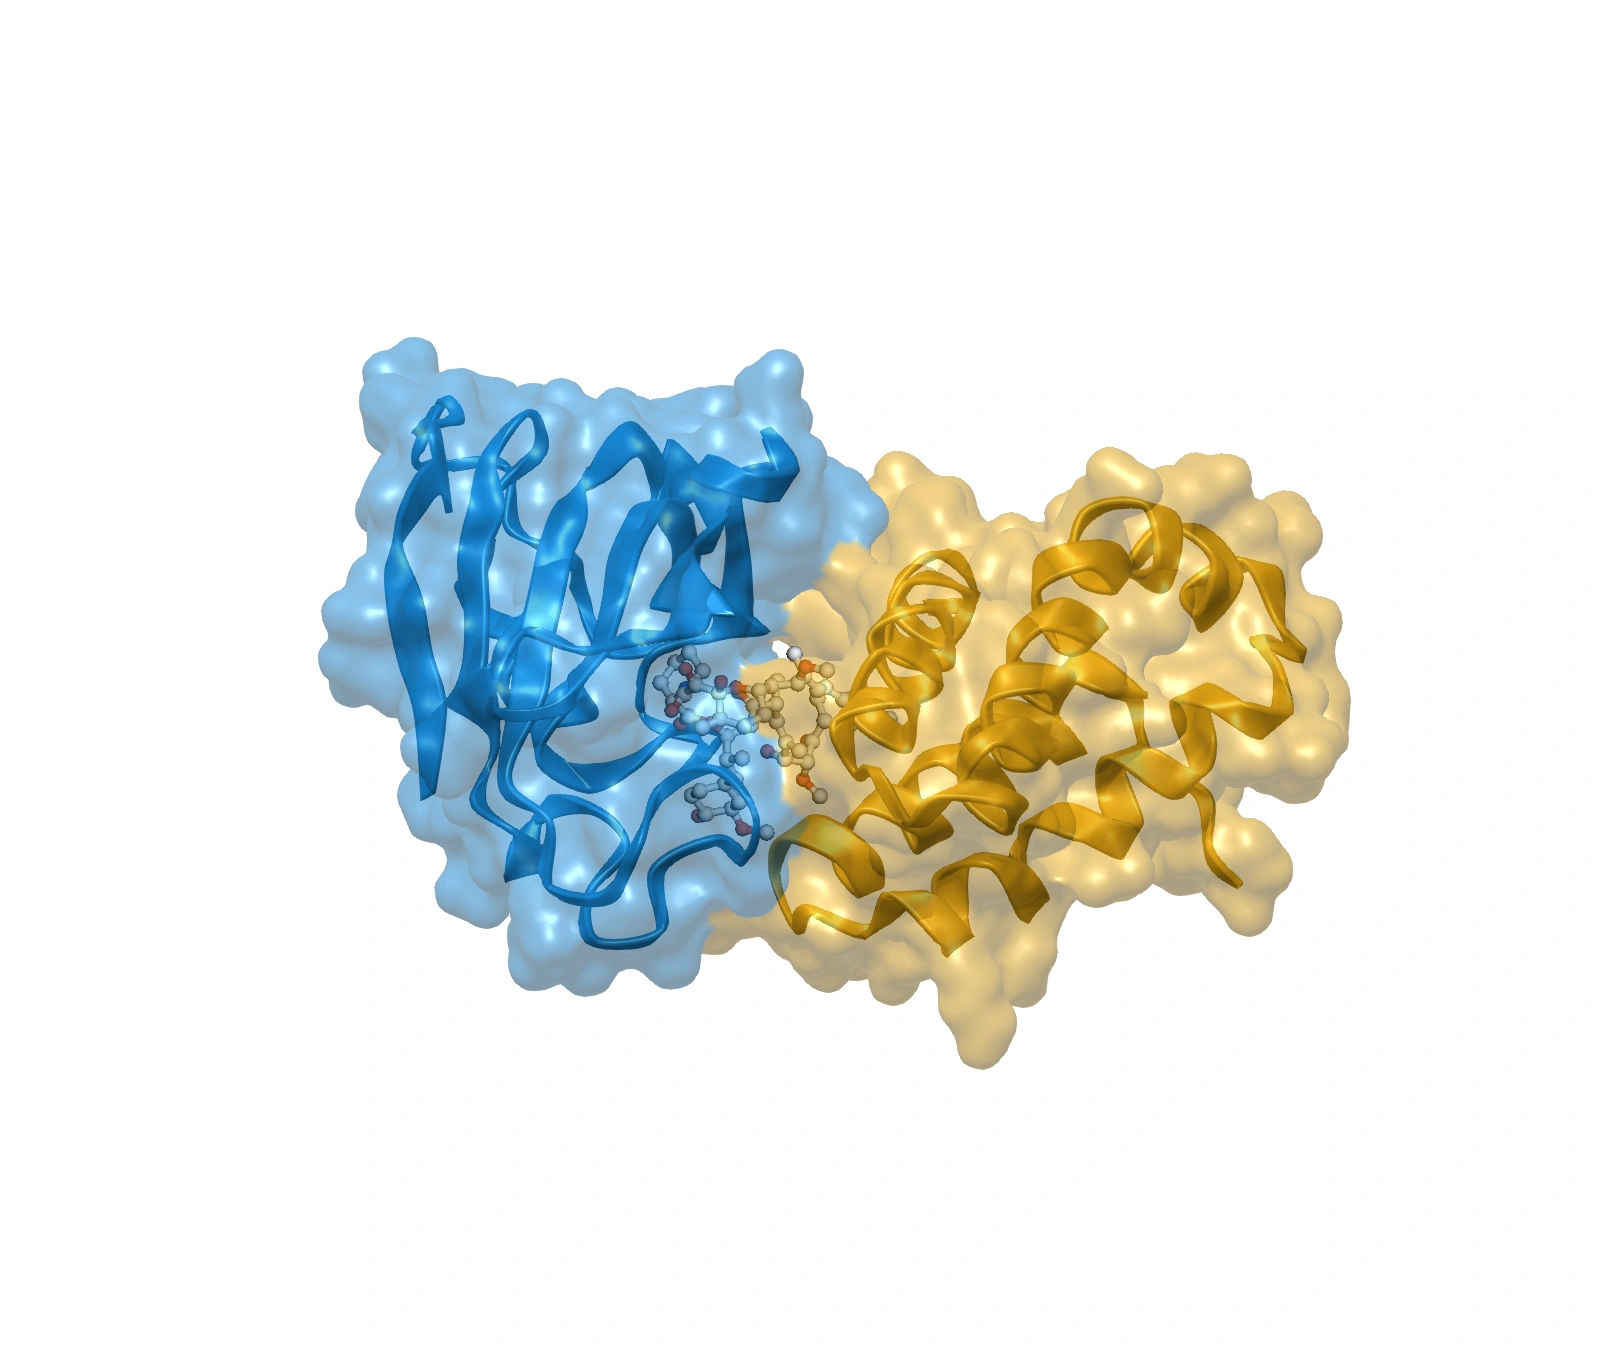
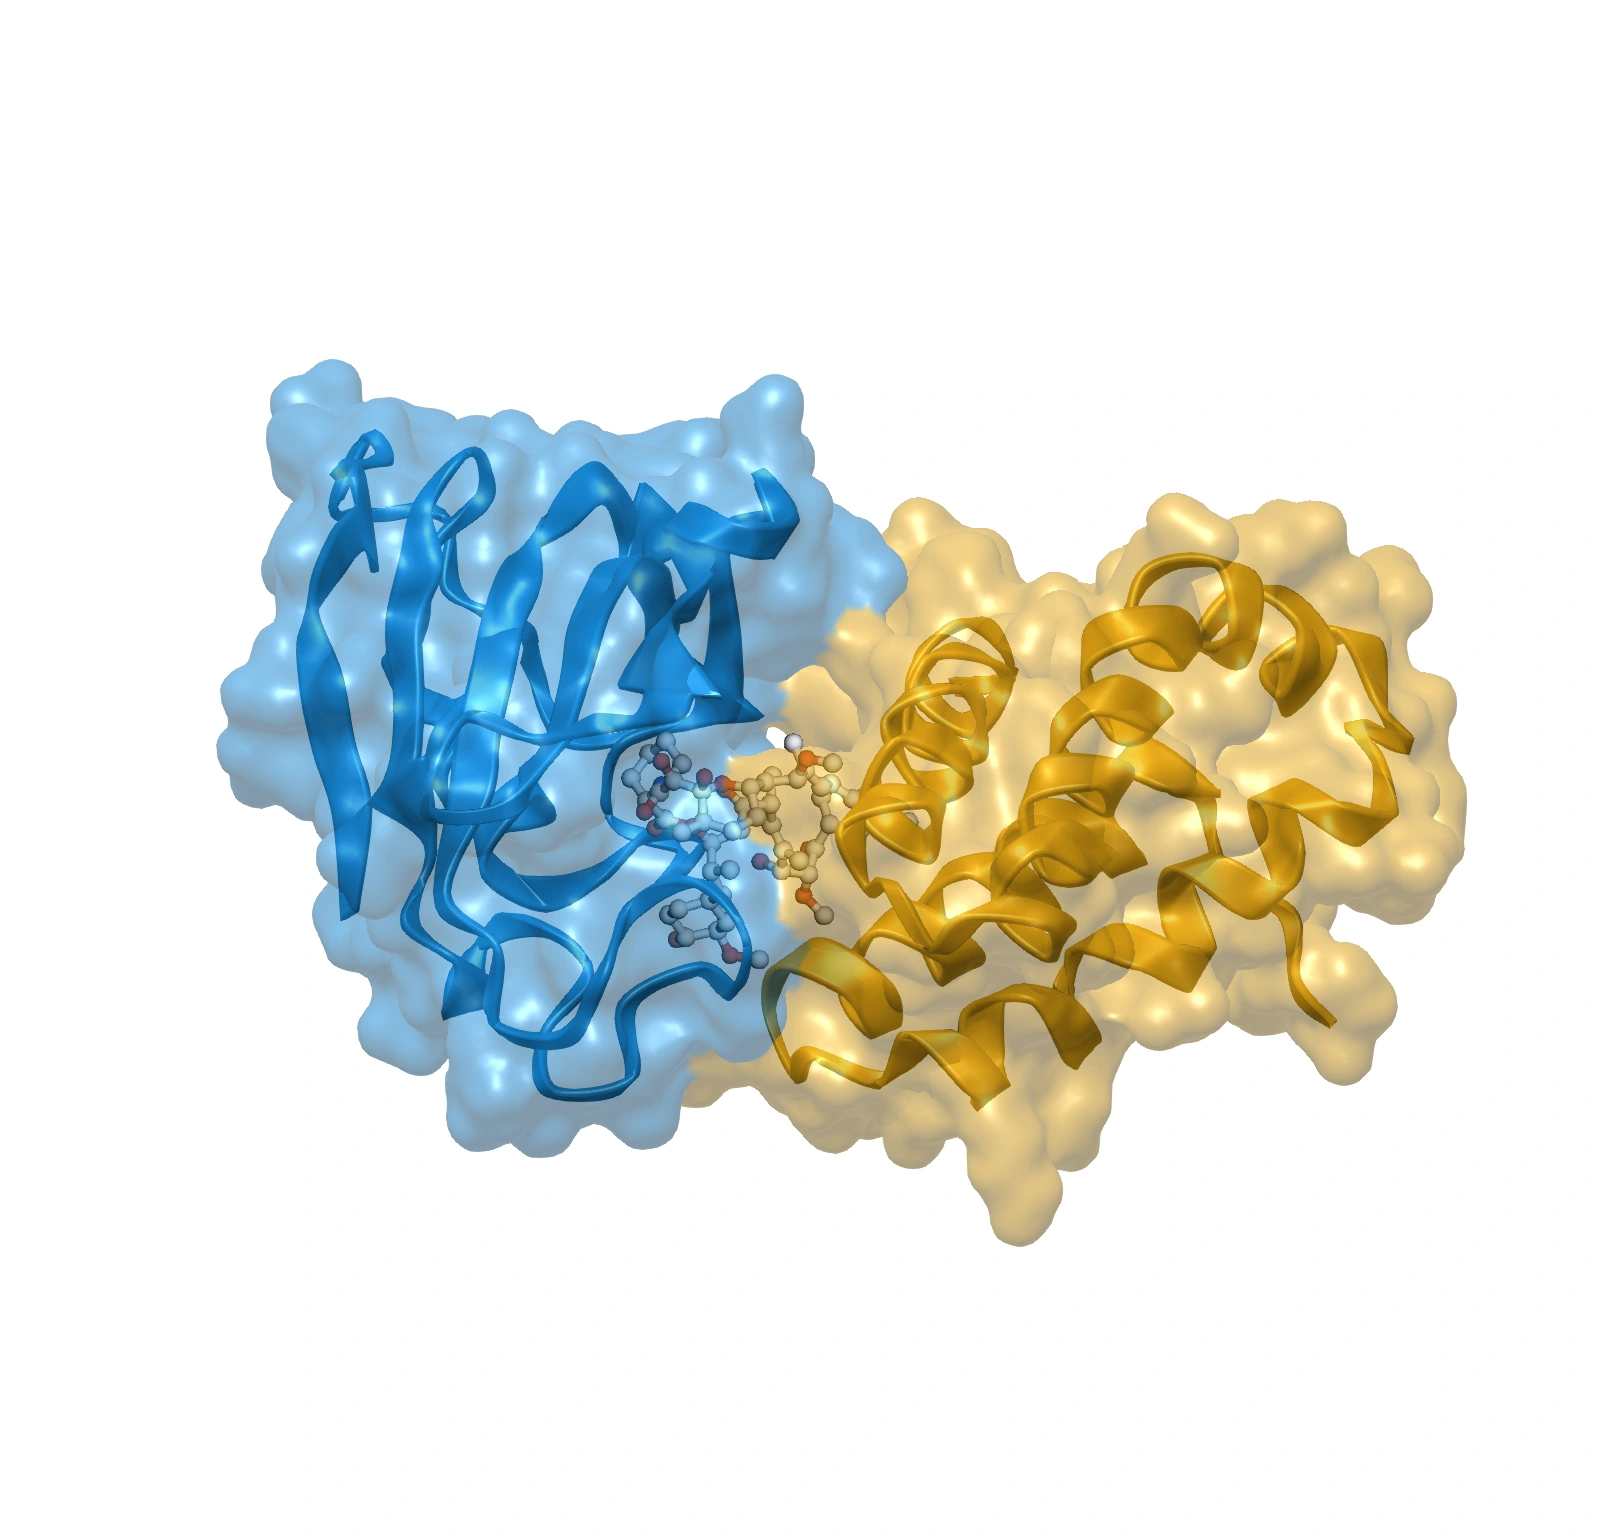
Enlarge homepage molecular scene and enable direct manipulation (#12)

Changed region(s): [[0.125, 0.2175, 0.9375, 0.8077]]

diff --git a/src/static/assets/modules/protein-scene.js b/src/static/assets/modules/protein-scene.js
@@ -8,6 +8,11 @@ export class ProteinScene {
     this.ambient=ambient;
     this.library=library;this.element=element;this.viewer=library.createViewer(element,ambient?{...proteinViewerSettings,nomouse:true}:proteinViewerSettings);
     if(!this.viewer)throw new Error('webgl_unavailable');
+    if(ambient){
+      // Use the documented custom-handler hook; install no competing native wheel handler.
+      const canvas=this.viewer.getCanvas();
+      for(const [event,handler] of [['mousedown','_handleMouseDown'],['touchstart','_handleMouseDown'],['mousemove','_handleMouseMove'],['touchmove','_handleMouseMove'],['contextmenu','_handleContextMenu']])canvas.addEventListener(event,this.viewer[handler].bind(this.viewer),{passive:false});
+    }
     this.context=this.viewer.getRenderer().getContext();
     if(!this.context||this.context.isContextLost())throw new Error('webgl_unavailable');
     this.context.canvas.addEventListener('webglcontextlost',()=>{this.viewer.spin(false);element.dispatchEvent(new Event('protein-context-lost'));});
@@ -27,9 +32,10 @@ export class ProteinScene {
     this.frame();this.initialView=[...this.viewer.getView()];
   }
   frame() {
+    if(this.ambient)this.viewer.setZoomLimits(1,100000);
     this.viewer.zoomTo(this.selection);
     this.viewer.zoom(fittingZoom(this.element.clientWidth,this.element.clientHeight));this.viewer.render();
-    if(this.ambient){fitAmbientFrame(this.viewer,this.element,this.model.selectedAtoms(this.selection));return;}
+    if(this.ambient){fitAmbientFrame(this.viewer,this.element,this.model.selectedAtoms(this.selection));const distance=this.viewer.getPerceivedDistance();this.viewer.setZoomLimits(distance/2.4,distance/.7);return;}
     const points=this.viewer.modelToScreen(this.model.selectedAtoms(this.selection));
     const xs=points.map(point=>point.x),ys=points.map(point=>point.y);
     const fill=Math.min(this.element.clientWidth*.86/(Math.max(...xs)-Math.min(...xs)),this.element.clientHeight*.8/(Math.max(...ys)-Math.min(...ys)));
@@ -78,5 +84,14 @@ export class ProteinScene {
   reset(){if(this.initialView){this.viewer.setView([...this.initialView]);this.frame();this.viewer.render();}}
   rotate(angle,axis){this.viewer.rotate(angle,axis);this.viewer.render();}
   zoom(factor){this.viewer.zoom(factor);this.viewer.render();}
-  resize(){const size=[this.element.clientWidth,this.element.clientHeight];this.viewer.resize();if(this.model&&size.some((v,i)=>v!==this.size[i])){this.frame();this.viewer.render();}this.size=size;}
+  endGesture(event){this.viewer._handleMouseUp(event);}
+  resize(){
+    const size=[this.element.clientWidth,this.element.clientHeight],view=this.viewer.getView();
+    this.viewer.resize();
+    if(this.model&&size.some((v,i)=>v!==this.size[i])){
+      if(this.ambient&&this.interacted)this.viewer.setView(view);else this.frame();
+      this.viewer.render();
+    }
+    this.size=size;
+  }
 }

diff --git a/src/static/assets/modules/molecular-gestures.js b/src/static/assets/modules/molecular-gestures.js
@@ -1,0 +1,51 @@
+// Native 3Dmol owns drag/pinch. This module owns normalized wheel and keyboard input.
+export function bindMolecularGestures(element,{scene,ready,sync}) {
+  const pointers=new Set();
+  let cooling=false,timer,tap,previousTap;
+  const reset=()=>{scene().reset();scene().interacted=false;};
+  const schedule=()=>{
+    clearTimeout(timer);
+    cooling=true;
+    timer=setTimeout(()=>{cooling=false;sync();},1800);
+    sync();
+  };
+  const start=event=>{
+    if(!ready())return;
+    pointers.add(event.pointerId);clearTimeout(timer);cooling=false;
+    tap=event.pointerType==='touch'&&pointers.size===1?{id:event.pointerId,x:event.clientX,y:event.clientY,time:performance.now()}:null;
+    scene().interacted=true;sync();
+  };
+  const end=event=>{
+    if(!pointers.delete(event.pointerId))return;
+    if(ready()&&tap?.id===event.pointerId&&performance.now()-tap.time<300){
+      if(previousTap&&tap.time-previousTap.time<380&&Math.hypot(tap.x-previousTap.x,tap.y-previousTap.y)<20){reset();previousTap=null;}
+      else previousTap=tap;
+    }
+    tap=null;if(!pointers.size)schedule();
+  };
+  const cancel=event=>{if(pointers.size)scene()?.endGesture(event);pointers.clear();tap=null;previousTap=null;clearTimeout(timer);cooling=false;sync();};
+  element.addEventListener('pointerdown',start,{capture:true});
+  element.addEventListener('pointermove',event=>{if(tap&&Math.hypot(event.clientX-tap.x,event.clientY-tap.y)>8)tap=null;});
+  addEventListener('pointerup',end);addEventListener('pointercancel',event=>{tap=null;scene()?.endGesture(event);end(event);});
+  element.addEventListener('wheel',event=>{
+    if(!ready())return;
+    event.preventDefault();
+    const unit=event.deltaMode===1?16:event.deltaMode===2?element.clientHeight:1;
+    const delta=Math.max(-240,Math.min(240,event.deltaY*unit));
+    scene().interacted=true;scene().zoom(Math.exp(-delta*.002));schedule();
+  },{passive:false});
+  element.addEventListener('dblclick',event=>{
+    if(!ready())return;
+    event.preventDefault();reset();schedule();
+  });
+  element.addEventListener('keydown',event=>{
+    if(!ready()||event.altKey||event.ctrlKey||event.metaKey)return;
+    const current=scene();
+    const actions={ArrowLeft:()=>current.rotate(5,'vy'),ArrowRight:()=>current.rotate(-5,'vy'),ArrowUp:()=>current.rotate(5,'vx'),ArrowDown:()=>current.rotate(-5,'vx'),'+':()=>current.zoom(1.12),'=':()=>current.zoom(1.12),'-':()=>current.zoom(1/1.12),Home:()=>current.reset(),'0':()=>current.reset()};
+    if(!actions[event.key])return;
+    event.preventDefault();current.interacted=!['Home','0'].includes(event.key);actions[event.key]();schedule();
+  });
+  addEventListener('blur',cancel);addEventListener('pagehide',cancel);
+  document.addEventListener('visibilitychange',event=>{if(document.hidden)cancel(event);});
+  return {busy:()=>pointers.size>0||cooling};
+}

diff --git a/src/static/assets/styles/atmosphere.css b/src/static/assets/styles/atmosphere.css
@@ -1,8 +1,15 @@
 .hero-visual.hero-molecular { align-self:center; }
-.molecular-atmosphere { position:relative; isolation:isolate; width:112%; margin-left:-6%; height:650px; min-width:0; }
+.molecular-atmosphere { position:relative; isolation:isolate; width:112%; margin-left:-6%; height:740px; min-width:0; }
 .atmosphere-stage { position:absolute; inset:0; z-index:2; }
 .atmosphere-canvas,.atmosphere-poster { position:absolute; inset:0; width:100%; height:100%; object-fit:contain; pointer-events:none; }
-.atmosphere-canvas,.atmosphere-poster { mask-image:radial-gradient(ellipse at center,#000 60%,transparent 76%); }
+.atmosphere-canvas,.atmosphere-poster { mask-image:radial-gradient(ellipse at center,#000 68%,transparent 82%); }
+.atmosphere-canvas { pointer-events:auto; cursor:grab; touch-action:none; }
+.atmosphere-canvas:active { cursor:grabbing; }
+.atmosphere-canvas:focus-visible { outline:none; }
+.molecular-atmosphere:has(.atmosphere-canvas:focus-visible) { outline:2px solid #92b9ce; outline-offset:-10px; }
+.atmosphere-hint { position:absolute; bottom:24px; left:20px; right:20px; z-index:3; pointer-events:none; color:var(--muted); font-size:11px; text-align:center; }
+.gesture-touch { display:none; }
+@media(pointer:coarse) { .gesture-mouse { display:none; } .gesture-touch { display:inline; } }
 .atmosphere-glow { position:absolute; inset:10% 0; z-index:0; border-radius:50%; background:radial-gradient(ellipse at 32% 44%,#78caff18,transparent 56%),radial-gradient(ellipse at 71% 50%,#ffd46718,transparent 60%); filter:blur(20px); animation:atmosphere-breathe 12s ease-in-out infinite paused; }
 [data-protein-mode="ambient"][data-phase="ready"] .atmosphere-poster { opacity:0; transition:opacity .8s; }
 [data-protein-mode="ambient"]:not([data-phase="ready"]) .atmosphere-canvas { visibility:hidden; }
@@ -11,7 +18,7 @@
 .product-feature-art { max-width:920px; margin:38px auto 0; }
 .research-illustration { min-width:0; }
 @keyframes atmosphere-breathe { 0%,100% { transform:scale(.95) rotate(-4deg); opacity:.8; } 50% { transform:scale(1.06) rotate(4deg); opacity:1; } }
-@media(max-width:1100px) { .molecular-atmosphere { height:540px; } }
-@media(max-width:760px) { .molecular-atmosphere { height:470px; width:100%; margin:0; } }
-@media(max-width:520px) { .molecular-atmosphere { height:370px; } .atmosphere-glow { inset:5% -8%; } }
+@media(max-width:1100px) { .molecular-atmosphere { height:600px; } }
+@media(max-width:760px) { .molecular-atmosphere { height:520px; width:100%; margin:0; } }
+@media(max-width:520px) { .molecular-atmosphere { height:420px; width:calc(100% + 40px); margin-left:-20px; } .atmosphere-glow { inset:5% -8%; } .atmosphere-hint { bottom:12px; font-size:10px; } }
 @media(prefers-reduced-motion:reduce) { .atmosphere-glow { animation:none; } .atmosphere-poster { transition:none!important; } }

diff --git a/src/static/assets/modules/molecular-atmosphere.js b/src/static/assets/modules/molecular-atmosphere.js
@@ -2,23 +2,25 @@ import { loadProteinLibrary } from './protein-library.js';
 import { loadStructure } from './structure-data.js';
 import { ProteinScene } from './protein-scene.js';
 import { motionAllowed,subscribeMotion } from './motion-policy.js';
+import { bindMolecularGestures } from './molecular-gestures.js';
 
 export function mountMolecularAtmosphere(root) {
   const {structures}=JSON.parse(root.querySelector('[data-protein-data]').textContent);
   const canvas=root.querySelector('[data-protein-canvas]'),status=root.querySelector('[data-ambient-status]');
   let scene,visible=false,started=false,failed=false;
   const controller=new AbortController();
+  const gestures=bindMolecularGestures(canvas,{scene:()=>scene,ready:()=>!!scene&&!failed&&root.dataset.phase==='ready',sync});
   function sync(){
-    const playing=!!scene&&!failed&&root.dataset.phase==='ready'&&visible&&!document.hidden&&motionAllowed();
+    const playing=!!scene&&!failed&&root.dataset.phase==='ready'&&visible&&!document.hidden&&motionAllowed()&&!gestures.busy();
     scene?.spin(playing);root.dataset.spinning=String(playing);
   }
-  function fail(){failed=true;root.dataset.phase='error';status.hidden=false;sync();}
+  function fail(){failed=true;root.dataset.phase='error';status.hidden=false;canvas.tabIndex=-1;canvas.setAttribute('aria-disabled','true');root.querySelector('[data-ambient-hint]').hidden=true;sync();}
   async function start(){
     started=true;root.dataset.phase='loading';
     try{
       const library=await loadProteinLibrary();scene=new ProteinScene(library,canvas,{ambient:true});
       const text=await loadStructure(structures[0],controller.signal);scene.load(text,structures[0]);await scene.represent('ambient');
-      if(failed)return;root.dataset.phase='ready';sync();
+      if(failed)return;root.dataset.phase='ready';canvas.tabIndex=0;canvas.setAttribute('aria-disabled','false');root.querySelector('[data-ambient-hint]').hidden=false;sync();
     }catch{fail();}
   }
   canvas.addEventListener('protein-context-lost',fail);subscribeMotion(sync);

diff --git a/src/static/assets/modules/protein-material.js b/src/static/assets/modules/protein-material.js
@@ -19,7 +19,7 @@ export function fitAmbientFrame(viewer,element,atoms) {
   const radius=Math.max(...atoms.map(a=>Math.hypot(a.x-center.x,a.y-center.y,a.z-center.z)))+4;
   const points=viewer.modelToScreen([center,{...center,x:center.x+1},{...center,y:center.y+1},{...center,z:center.z+1}]);
   const sx=Math.hypot(...points.slice(1).map(p=>p.x-points[0].x)),sy=Math.hypot(...points.slice(1).map(p=>p.y-points[0].y));
-  const scale=Math.min(element.clientWidth*.47/(radius*sx),element.clientHeight*.47/(radius*sy));
+  const scale=Math.min(element.clientWidth*.5/(radius*sx),element.clientHeight*.5/(radius*sy));
   if(!Number.isFinite(scale)||scale<=0)throw new Error('invalid_ambient_frame');
   viewer.zoom(scale);viewer.setSlab(-1.3*radius,1.3*radius);viewer.render();
 }

diff --git a/QUALITY.md b/QUALITY.md
@@ -25,7 +25,7 @@ Default English is served at `/`; the central locale dictionary owns routing.
 | Shared motion preference | OS reduction, user pause/resume, refresh, visible/offscreen/hidden states | Image animation timelines stop; genuine PDB rotation and CSS traces agree; accurate reason labels |
 | Biomedical imagery × 6 | Subject relevance, blended edges, loading/error/retry, pause/pointer/offscreen/no JS | Original native provenance; real image pixels and accurate labels; no generated results |
 | Product use cases × 5 × 6 | Three problem/benefit/next-step panels, official guide, arrows/Home/End, focus, no JS | Complete localized facts, single shared tab contract; no pretend scientific execution |
-| Homepage ambient scene × 6 | Automatic multi-axis rotation; no buttons, menus, captions, pointer gestures or focusable widgets; responsive fit, reduced motion and failure poster | Real camera changes; full rotation bounds; generic accessible name; no visible surrounding UI |
+| Homepage ambient scene × 6 | Automatic multi-axis rotation; larger composition; drag, pinch, wheel, keyboard and double-click/tap reset without a toolbar; input cooldown, responsive view retention, reduced motion and failure poster | Real camera changes and bounded zoom; full default rotation bounds; localized gesture help; no surrounding button panel |
 | All public copy and imagery | All six languages, metadata, labels, placeholders, captions, active panels and visible image text | No target/disease terminology or named research examples; no retired named capture URLs |
 | X-DDE molecular illustration × 6 | Lazy/loading/ready, three generically named forms, ribbon/surface, full rotation, reset/zoom, backgrounds, PNG export, error/retry, unavailable/context loss | Actual WebGL pixels, exact source coordinates and bounded views; no visible target/protein/interaction identity in text, alt, ARIA, labels or exports |
 | Molecular motion/export | Visible/offscreen/hidden tab, user pause, reduced-motion changes, keyboard, mobile resize, high DPR | Rotation really stops; control states agree; PNG pixels and generic caption/filename are valid; canvas/view restore exactly |
@@ -90,7 +90,7 @@ products, contact and footer across all six languages; inspect long labels and
 320 px layouts. Remove dead controls, unused diagrams and construction language.
 Keep scope/licensing/source facts that inform a real adoption decision.
 
-The public 3D review checks a purely illustrative display. Home is a control-free ambient scene; X-DDE keeps generic form controls. Both have
+The public 3D review checks a purely illustrative display. Home offers direct manipulation without a button panel; X-DDE keeps generic form controls. Both have
 no target/protein/interaction descriptions, no residue labels, no scientific
 parameter panels and no identifying export caption or filename. Source manifests
 retain real coordinate provenance. Inspect both representations and full rotation

diff --git a/README.md b/README.md
@@ -88,17 +88,24 @@ ProteinScene and the same bounded, hash-verified coordinate loader. Scientific
 identity, immutable source bytes and upstream citations belong to
 structure-provenance.json, not the public marketing presentation.
 
-The homepage is a noninteractive ambient animation: no local controls, labels,
-legends, dropdowns, keyboard focus or mouse gestures. Blue and gold ribbons,
-a translucent envelope and view-dependent studio highlights form its visual style.
-The compact two-part homepage composition is selected by ambient-poster.json.
-The view rotates on multiple axes. A coordinate bounding sphere reserves room
-for every orientation, with an explicit depth slab and resize-aware fitting.
-A white studio background blends into the page through a soft outer mask;
-mouse input is disabled. Global user
-pause, system reduced motion, document visibility and offscreen state govern it.
-An unavailable animation keeps its genuine static poster and displays a short
-localized status; refresh provides a fresh bounded attempt without hidden loops.
+The homepage has a larger, directly manipulable molecular illustration without
+surrounding button panels. Blue and gold ribbons, a translucent envelope and
+view-dependent studio highlights follow the supplied visual reference. The model
+and genuine poster are selected by ambient-poster.json; a white studio background
+blends into the page through a soft outer mask.
+
+Native 3Dmol handlers own drag and pinch through the documented custom-handler
+hook. molecular-gestures.js owns a single standard-delta wheel path, keyboard
+rotation/zoom/reset and double-click or double-tap reset. No competing native wheel
+handler is installed for this scene. Distance limits keep zoom between 0.7x and
+2.4x the fitted size. During input and for 1.8 seconds afterward, automatic rotation
+pauses; global/system motion policy, visibility and offscreen state remain the
+final authority. A chosen view survives responsive resize; reset restores framing.
+
+The initial fit reserves room for rotation. Localized hints distinguish mouse and
+touch input, with keyboard instructions available to assistive technology. Before
+ready, or after a renderer failure, the canvas is unfocusable and the genuine
+poster remains visible. Failure exposes a short status and page-refresh recovery.
 
 X-DDE retains its generic three-form selector, ribbon/surface controls, zoom,
 background and actual PNG export. It has no public biological identity or
